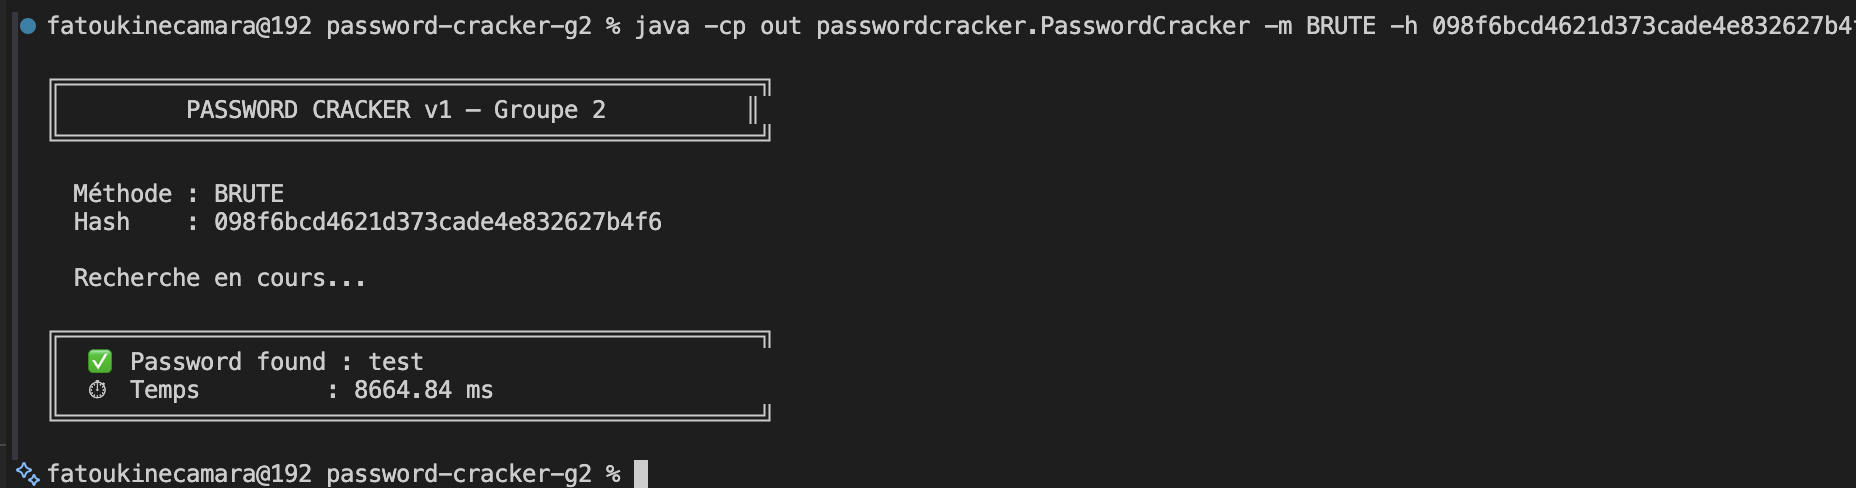
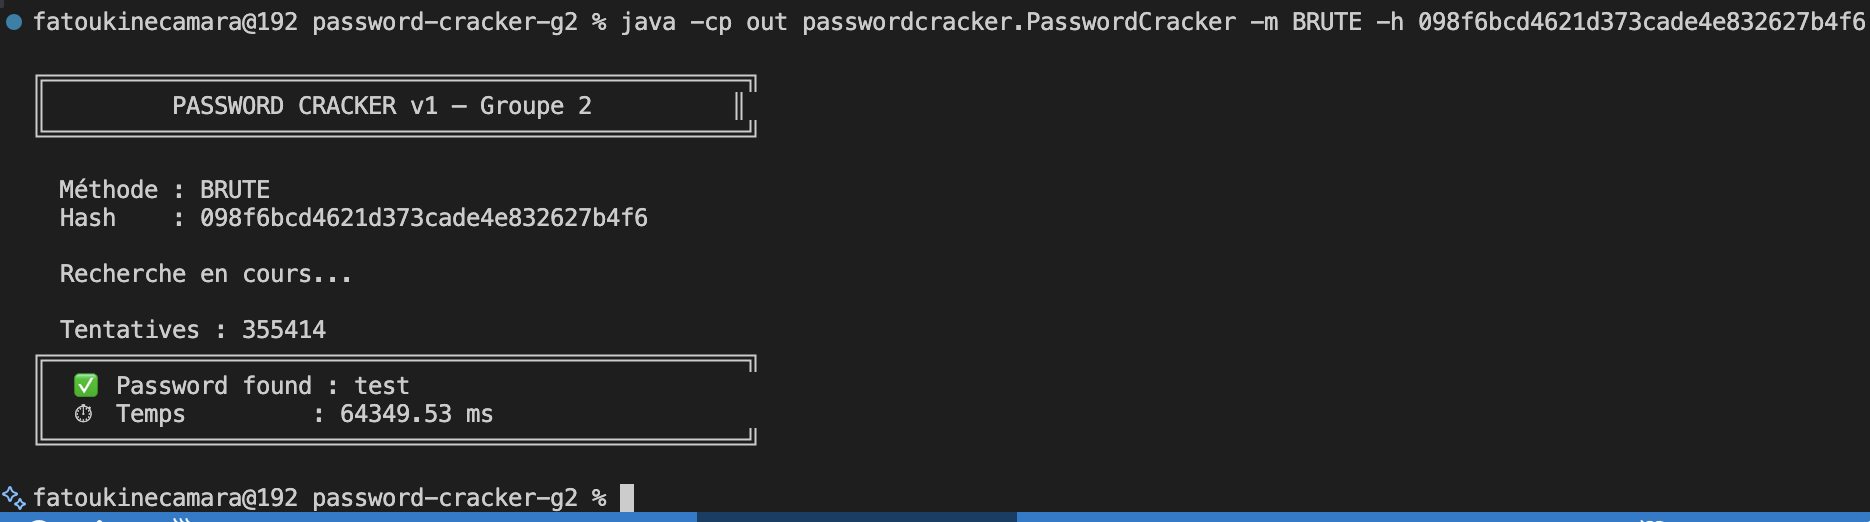
refactor: compteur tentatives + nouvelles captures + suppression dict.txt dupliqué

Changed region(s): [[0.0, 0.0, 1.0, 1.0]]

diff --git a/src/main/java/passwordcracker/BruteForceHashCracker.java b/src/main/java/passwordcracker/BruteForceHashCracker.java
@@ -1,31 +1,34 @@
 package passwordcracker;
 
 public class BruteForceHashCracker implements HashCracker {
-
     private static final String ALPHABET = "abcdefghijklmnopqrstuvwxyz";
     private static final int MAX_LENGTH = 4;
+    private int attempts = 0;
 
     @Override
     public String crack(String hash) {
+        attempts = 0;
         for (int longueur = 1; longueur <= MAX_LENGTH; longueur++) {
             char[] combinaison = new char[longueur];
             String resultat = essayerCombinaisons(combinaison, 0, longueur, hash);
             if (resultat != null) {
+                System.out.println("  Tentatives : " + attempts);
                 return resultat;
             }
         }
+        System.out.println("  Tentatives : " + attempts);
         return null;
     }
 
     private String essayerCombinaisons(char[] combinaison, int index, int longueur, String hashCible) {
         if (index == longueur) {
+            attempts++;
             String mot = new String(combinaison);
             if (Md5Util.matches(mot, hashCible)) {
                 return mot;
             }
             return null;
         }
-
         for (int i = 0; i < ALPHABET.length(); i++) {
             combinaison[index] = ALPHABET.charAt(i);
             String resultat = essayerCombinaisons(combinaison, index + 1, longueur, hashCible);

diff --git a/src/main/java/passwordcracker/DictionaryHashCracker.java b/src/main/java/passwordcracker/DictionaryHashCracker.java
@@ -5,7 +5,6 @@ import java.io.FileReader;
 import java.io.IOException;
 
 public class DictionaryHashCracker implements HashCracker {
-
     private final String dictionaryPath;
 
     public DictionaryHashCracker(String dictionaryPath) {
@@ -14,17 +13,21 @@ public class DictionaryHashCracker implements HashCracker {
 
     @Override
     public String crack(String hash) {
+        int attempts = 0;
         try (BufferedReader reader = new BufferedReader(new FileReader(dictionaryPath))) {
             String word;
             while ((word = reader.readLine()) != null) {
                 word = word.trim();
+                attempts++;
                 if (Md5Util.matches(word, hash)) {
+                    System.out.println("  Tentatives : " + attempts);
                     return word;
                 }
             }
         } catch (IOException e) {
             System.out.println("Erreur de lecture du dictionnaire : " + e.getMessage());
         }
+        System.out.println("  Tentatives : " + attempts);
         return null;
     }
 }

diff --git a/README.md b/README.md
@@ -73,17 +73,17 @@ Le programme principal connaît et dépend directement de chaque implémentation
 
 ```
 password-cracker-g2/
+├── dict.txt                        # Dictionnaire de mots
 ├── src/
 │   └── main/
 │       └── java/
 │           └── passwordcracker/
-│               ├── HashCracker.java            # Interface commune
-│               ├── HashCrackerFactory.java     # Fabrique simple
-│               ├── BruteForceHashCracker.java  # Stratégie force brute
-│               ├── DictionaryHashCracker.java  # Stratégie dictionnaire
-│               ├── Md5Util.java                # Utilitaire MD5 partagé
-│               ├── PasswordCracker.java        # Programme principal
-│               └── dict.txt                    # Dictionnaire de mots
+│               ├── HashCracker.java
+│               ├── HashCrackerFactory.java
+│               ├── BruteForceHashCracker.java
+│               ├── DictionaryHashCracker.java
+│               ├── Md5Util.java
+│               └── PasswordCracker.java
 └── README.md
 ```
 
@@ -218,8 +218,8 @@ java -cp out passwordcracker.PasswordCracker -m INVALID -h 098f6bcd4621d373cade4
 |---|---|---|
 | Vitesse | Rapide (~150ms) | Lente (~10 secondes) |
 | Couverture | Limitée aux mots du fichier | Exhaustive (tous les cas) |
-| Mot de passe "test" |  Trouvé |  Trouvé |
-| Mot de passe hors dictionnaire |  Non trouvé |  Trouvé (si ≤ 4 caractères) |
+| Mot de passe "test" | ✅ Trouvé | ✅ Trouvé |
+| Mot de passe hors dictionnaire | ❌ Non trouvé | ✅ Trouvé (si ≤ 4 caractères) |
 | Cas d'usage idéal | Mots de passe courants | Mots de passe courts inconnus |
 
 ### Sorties console
